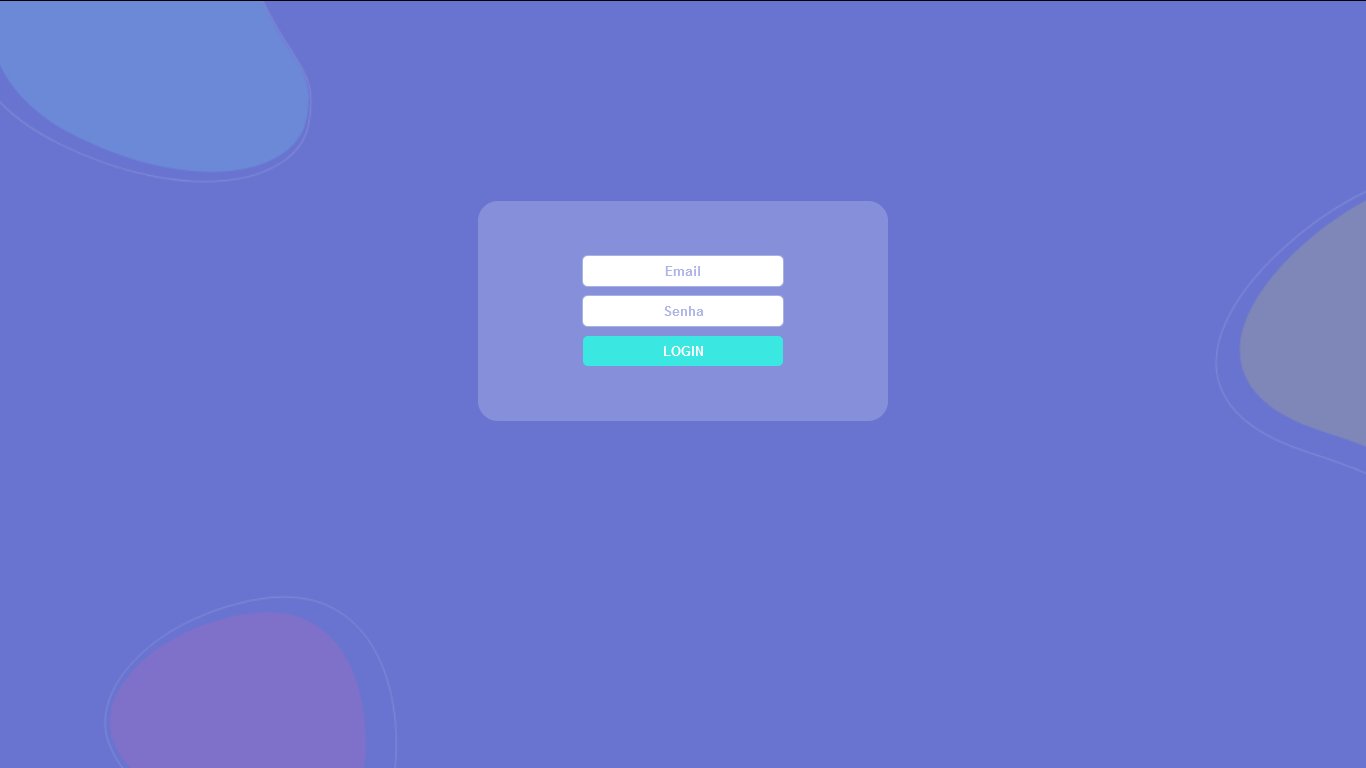
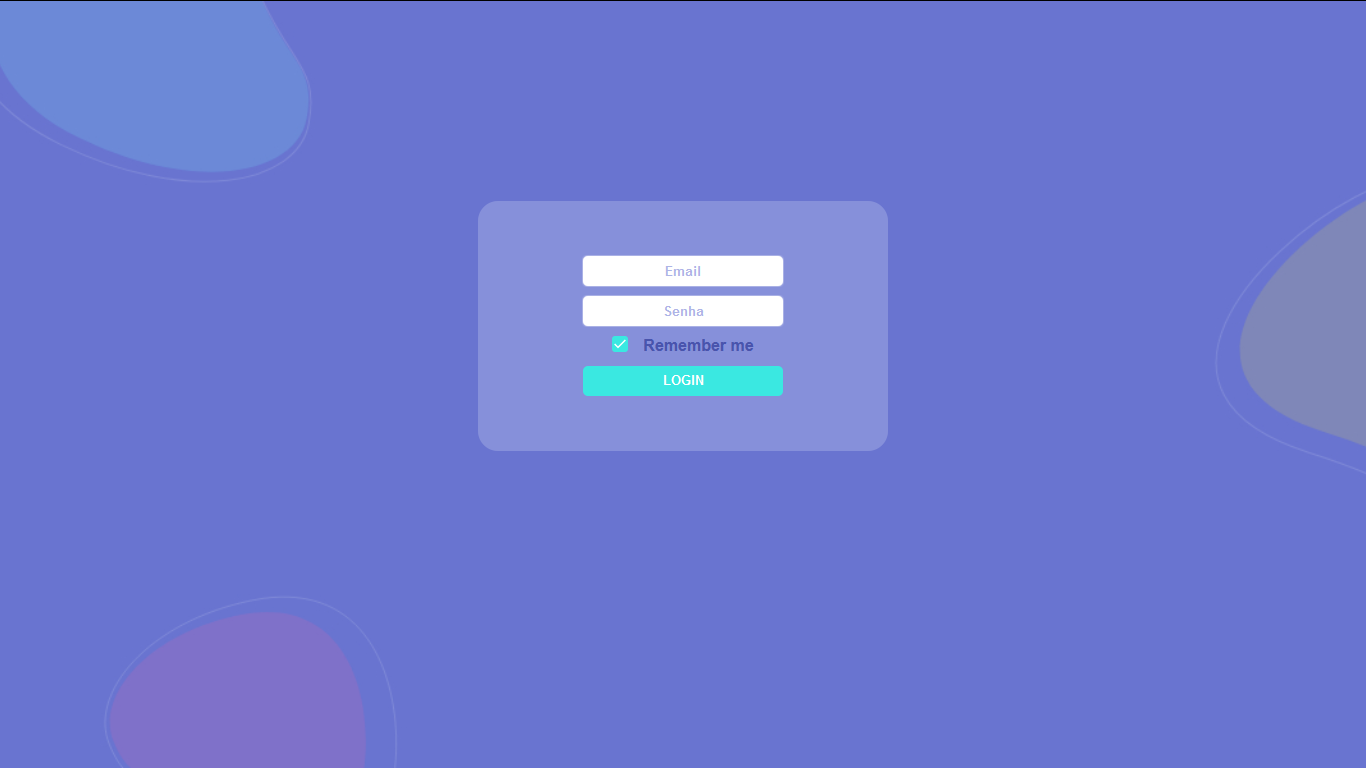
remember me checkbox

Changed region(s): [[0.3382, 0.4375, 0.6764, 0.5938]]

diff --git a/src/Components/Login/styles.js b/src/Components/Login/styles.js
@@ -1,8 +1,13 @@
+import React from "react";
 import styled from "styled-components";
 
 export const FormElement = styled.div`
   padding-bottom: 5px;
   padding-top: 5px;
+  display: flex;
+  margin: auto;
+  justify-content: center;
+  align-items: center;
 `;
 export const Input = styled.input`
   width: 200px;
@@ -25,3 +30,62 @@ export const Button = styled.button`
   font-weight: bold;
   border: 0;
 `;
+
+export const Text = styled.div`
+  color: #4954ad;
+  font-weight: bold;
+`;
+
+const CheckboxContainer = styled.div`
+  display: inline-block;
+  vertical-align: middle;
+  margin-right: 15px;
+`;
+
+const Icon = styled.svg`
+  fill: none;
+  stroke: white;
+  stroke-width: 2px;
+`;
+// Hide checkbox visually but remain accessible to screen readers.
+// Source: https://polished.js.org/docs/#hidevisually
+const HiddenCheckbox = styled.input.attrs({ type: "checkbox" })`
+  border: 0;
+  clip: rect(0 0 0 0);
+  clippath: inset(50%);
+  height: 1px;
+  margin: -1px;
+  overflow: hidden;
+  padding: 0;
+  position: absolute;
+  white-space: nowrap;
+  width: 1px;
+`;
+
+const StyledCheckbox = styled.div`
+  display: inline-block;
+  width: 16px;
+  height: 16px;
+  background: ${(props) => (props.checked ? "#3ae8e1" : "papayawhip")};
+  border-radius: 3px;
+  transition: all 150ms;
+
+  ${HiddenCheckbox}:focus + & {
+    box-shadow: 0 0 0 3px pink;
+  }
+
+  ${Icon} {
+    visibility: ${(props) => (props.checked ? "visible" : "hidden")};
+  }
+`;
+
+export const Checkbox = ({ checked, ...props }) => (
+  <CheckboxContainer>
+    <HiddenCheckbox checked={checked} {...props} />
+    <StyledCheckbox checked={checked} {...props}>
+      <Icon viewBox="0 0 24 24">
+        <polyline points="20 6 9 17 4 12" />
+      </Icon>
+    </StyledCheckbox>
+  </CheckboxContainer>
+);

diff --git a/src/Components/Login/index.js b/src/Components/Login/index.js
@@ -1,12 +1,14 @@
 import React, { useState } from "react";
 import { useDispatch } from "react-redux";
-import { Input, FormElement, Button } from "./styles";
+import { Input, FormElement, Button, Checkbox, Text } from "./styles";
 import { Container } from "../../Styles";
 import { SetEmail } from "../../Store/actions";
 
 const Login = () => {
   const dispatch = useDispatch();
   const [email, setEmail] = useState("");
+  const [checked, setChecked] = useState(true);
+
   const handleLogin = (e) => {
     e.preventDefault();
     dispatch(SetEmail(email));
@@ -23,6 +25,17 @@ const Login = () => {
         </FormElement>
         <FormElement>
           <Input placeholder="Senha" type="password" />
+        </FormElement>
+        <FormElement>
+          <Checkbox
+            type="checkbox"
+            checked={checked}
+            onClick={(e) => {
+              setChecked((checked) => !checked);
+              console.log("test");
+            }}
+          />
+          <Text>Remember me</Text>
         </FormElement>
         <FormElement>
           <Button>LOGIN</Button>
